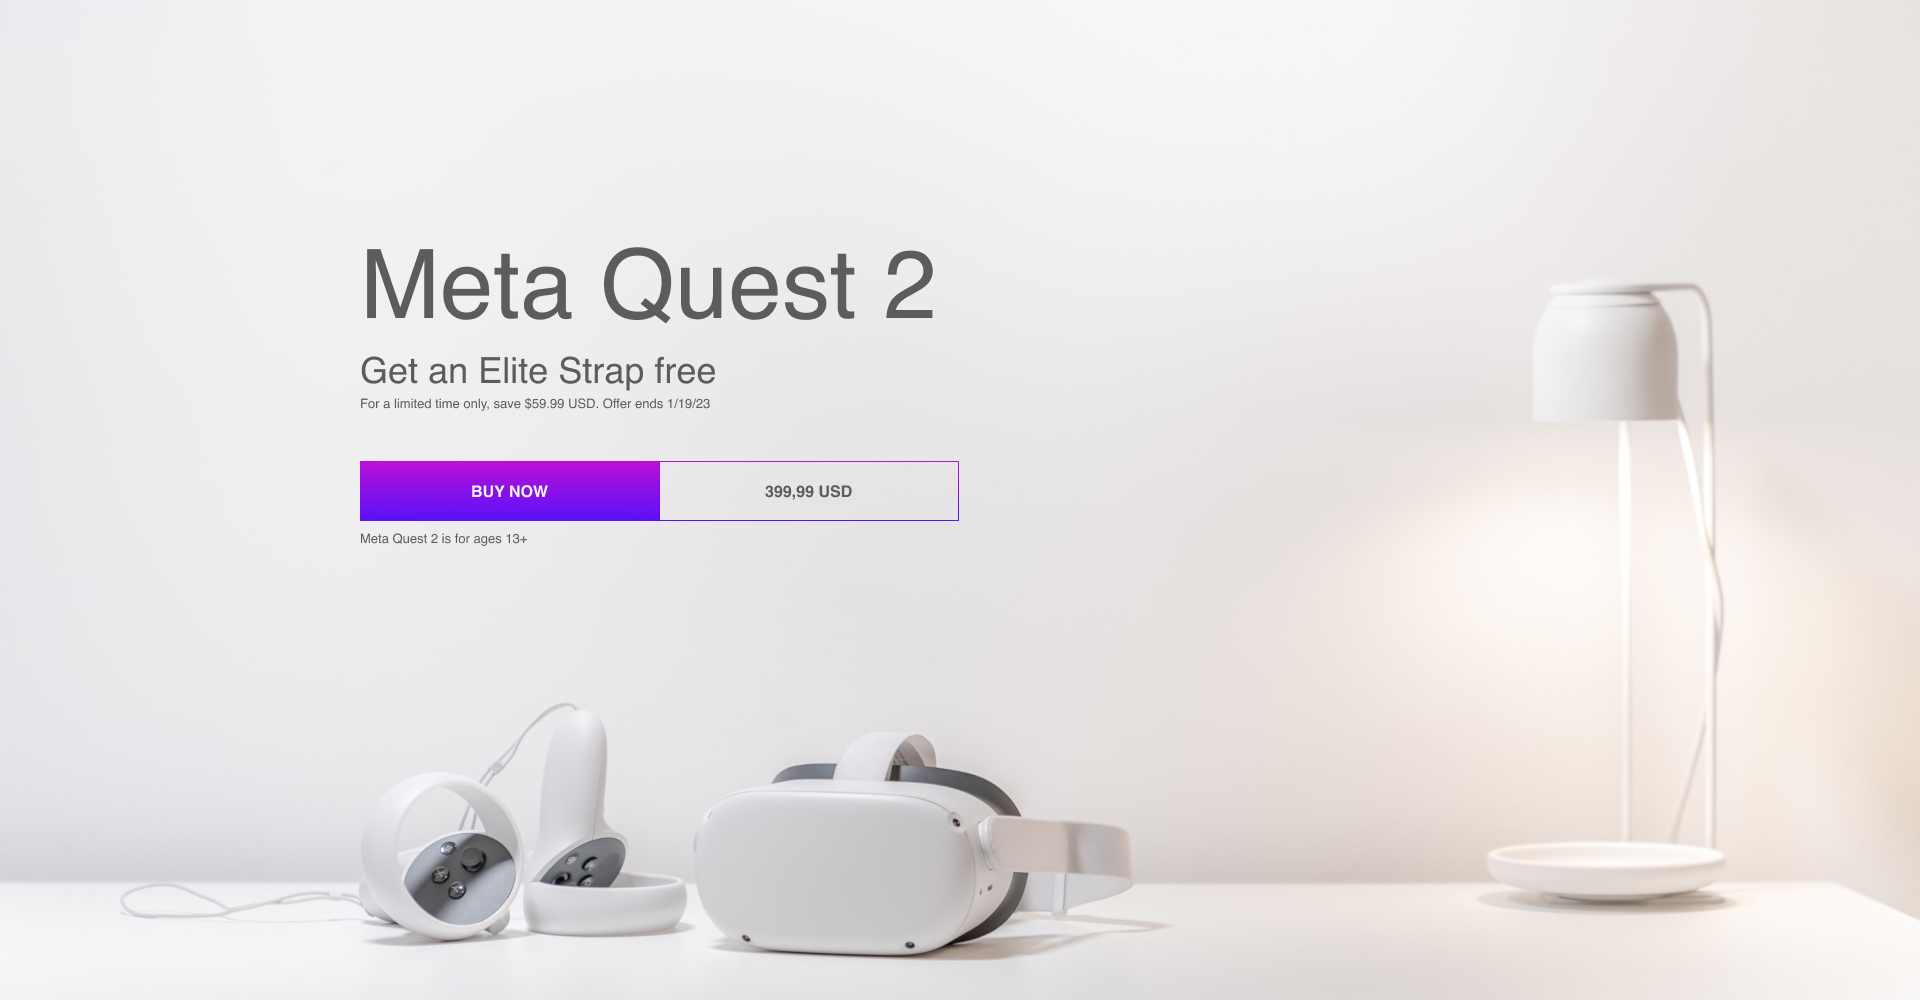
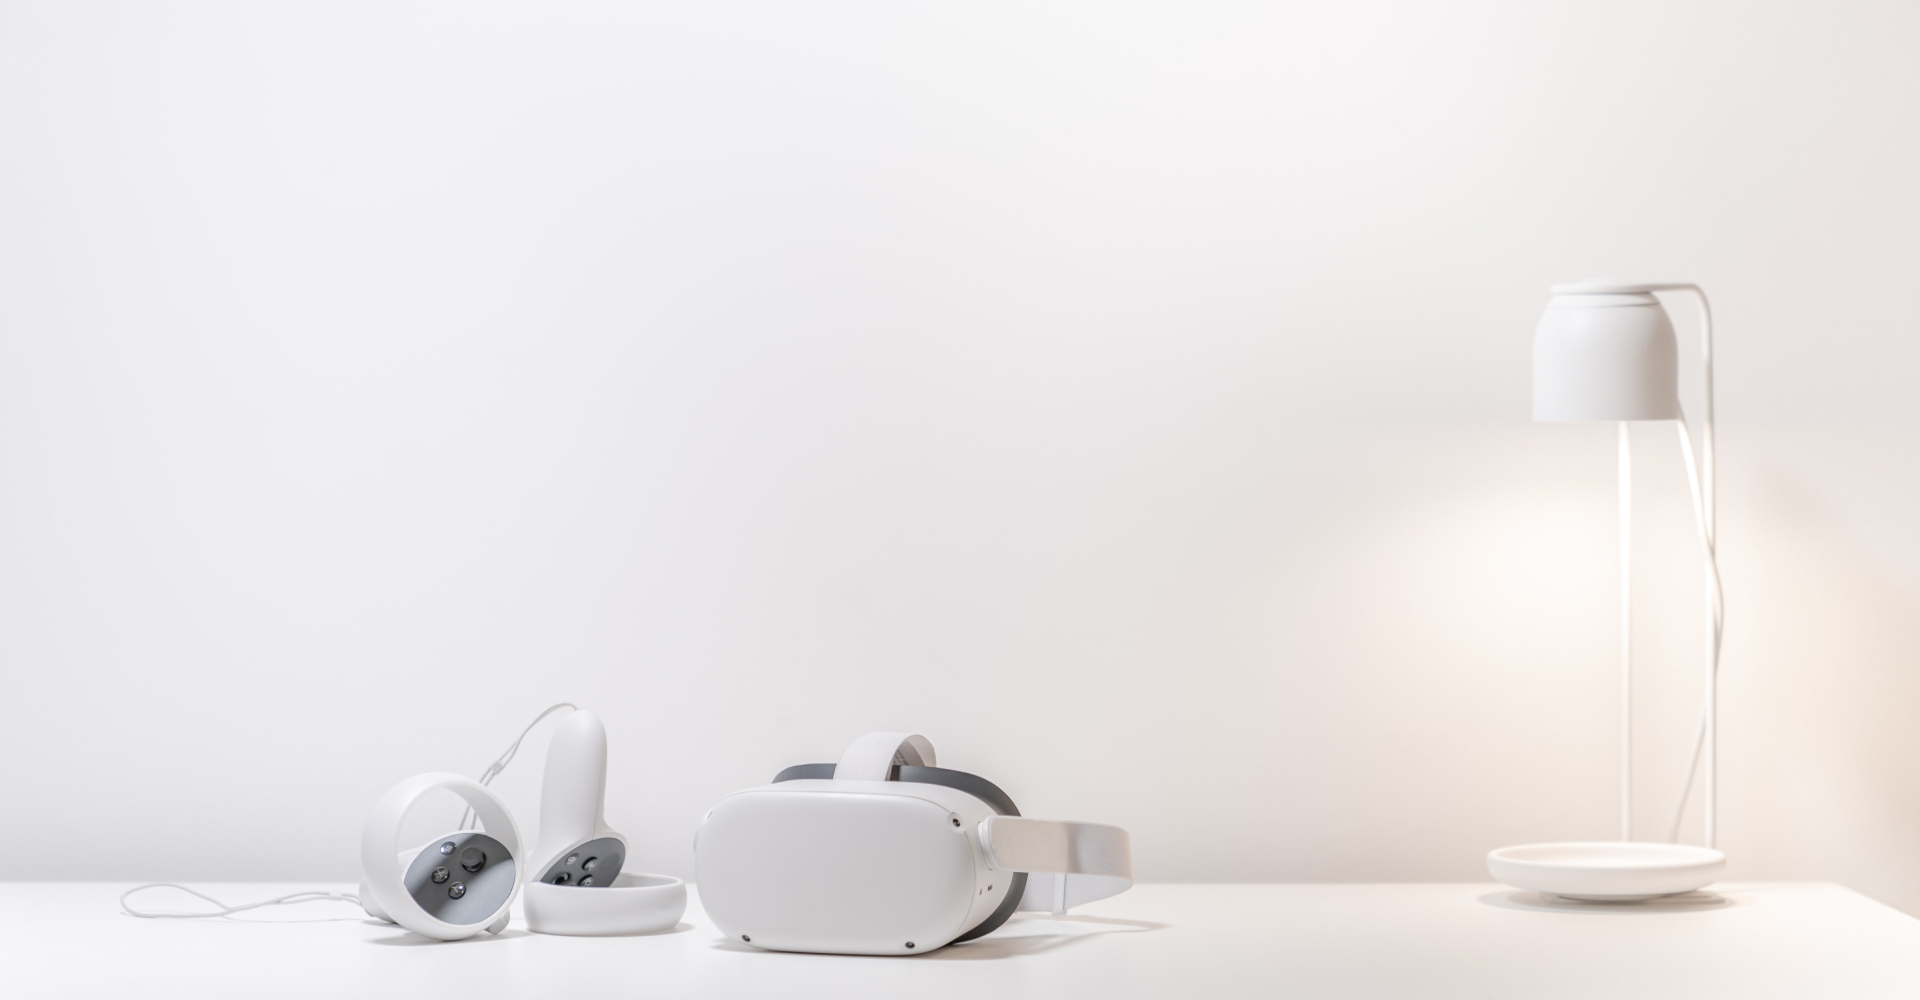
Oculus-Site commit 4

Changed region(s): [[0.1875, 0.248, 0.5, 0.403], [0.1875, 0.434, 0.3438, 0.558], [0.4062, 0.465, 0.4375, 0.496]]

diff --git a/Oculus-Site/css/style.css b/Oculus-Site/css/style.css
@@ -84,3 +84,51 @@ body {
   right: -2px;
 }
 
+.top {
+  min-height: calc(100vh - 81px);
+  background-image: url(../images/top-bg.jpg);
+  background-repeat: no-repeat;
+  background-size: cover;
+  background-position: bottom center;
+}
+
+.title {
+  padding-top: 16%;
+  font-size: 96px;
+  margin-bottom: 10px;
+}
+
+.subtitle {
+  font-size: 36px;
+  margin-bottom: 5px;
+}
+
+.top__text {
+  font-size: 13px;
+  margin-bottom: 50px;
+}
+
+.buy__text {
+  padding-top: 6px;
+  font-size: 13px;
+}
+
+.buy-btn {
+  cursor: pointer;
+  border: none;
+  background: linear-gradient(180deg, #BC10D8 0%, rgba(80, 0, 250, 0.93) 100%);
+  display: flex;
+  padding: 0;
+  text-transform: uppercase;
+  padding: 1px;
+}
+
+.buy-btn__text {
+  color: #f6f4f5;
+  padding: 20px 110px;
+}
+
+.buy-btn__price {
+  background-color: #f6f4f5;
+  padding: 20px 105px;
+}
